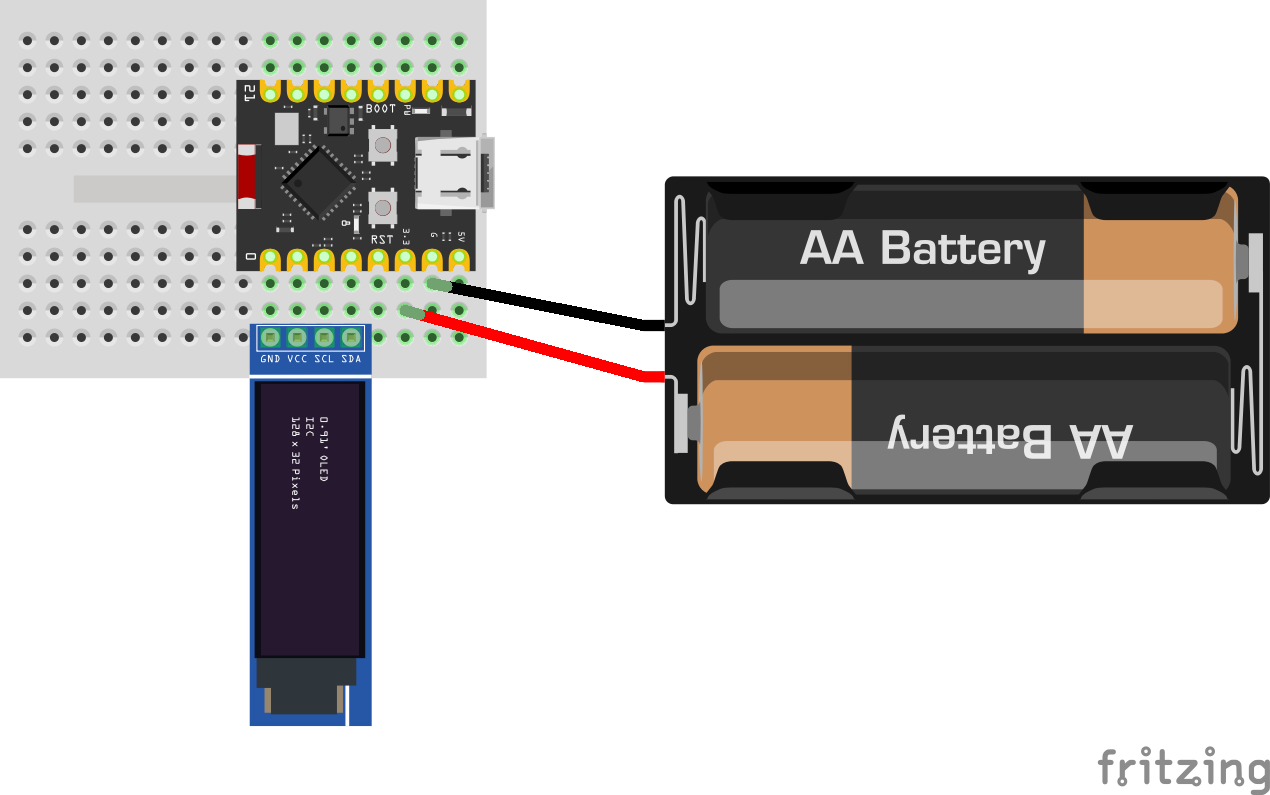
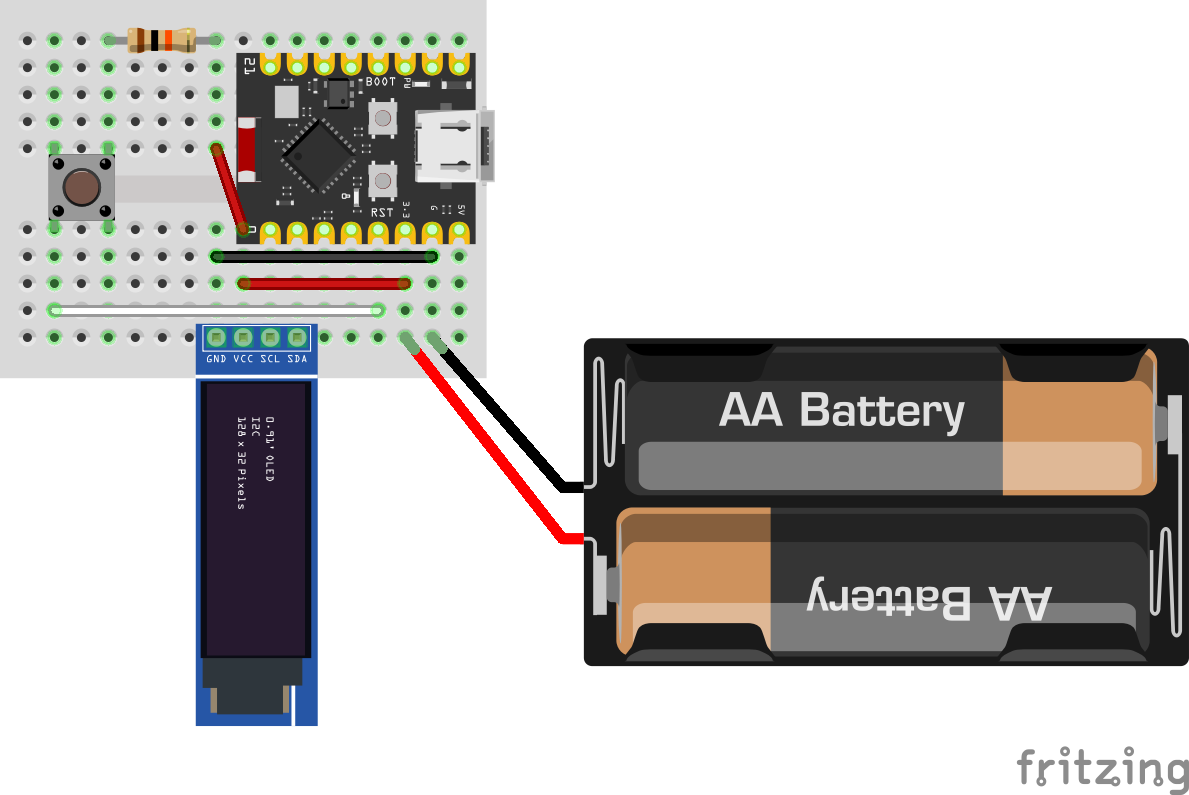
Hmm

diff --git a/matchbox/lol.py b/matchbox/lol.py
@@ -3,9 +3,7 @@ import time
 import ssd1306
 
 try:
-    ssd_gnd = machine.Pin(0, machine.Pin.OPEN_DRAIN, value=0)
-    ssd_vcc = machine.Pin(1, machine.Pin.OUT, value=1)
-    i2c = machine.SoftI2C(scl=machine.Pin(2) , sda=machine.Pin(3))
+    i2c = machine.SoftI2C(scl=machine.Pin(0), sda=machine.Pin(1))
     disp = ssd1306.SSD1306_I2C(128, 32, i2c)
     disp.contrast(0)
     disp.text('Hello, World!', 0, 0, 1)
@@ -38,3 +36,4 @@ for i in range(20):
 # esp32.wake_on_ext0(pin_D2, esp32.WAKEUP_ANY_HIGH)
 
 machine.deepsleep(10000)
+
